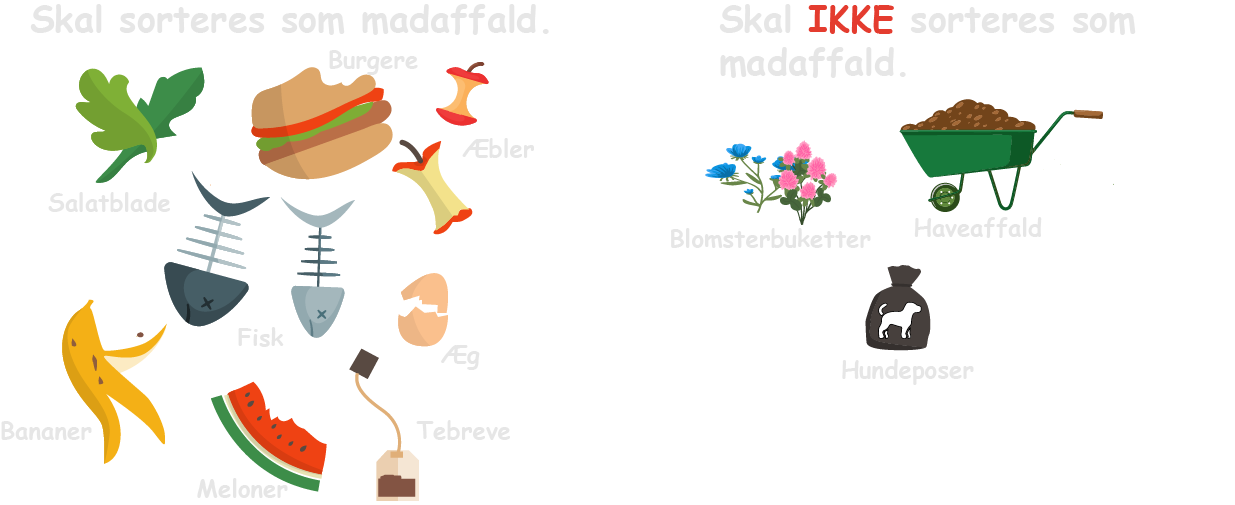
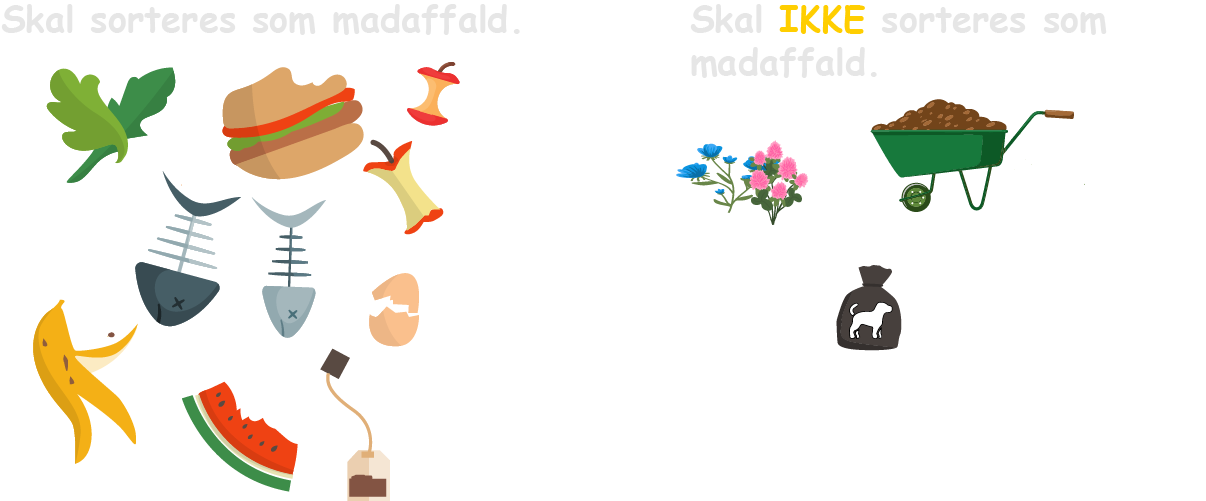
Polish Madaffald

diff --git a/index.html b/index.html
@@ -17,8 +17,8 @@
 
     <!-- Intro Title-->
     <div class="BodyHeader">
-        <h1 id="Title">  Her i Odense skal vi sortere efter <span class="green"> 8 affaldstyper</span></h1>
-        <h4 id="Subtitle">  <span class="green">Scroll </span> videre ned på siden for at få mere at vide</h4>
+        <h1 id="Title">  Her i Odense skal vi sortere efter <span class="green"> 8 affaldstyper.</span></h1>
+        <h4 id="Subtitle">  <span class="green">Scroll </span> videre ned på siden for at få mere at vide.</h4>
         <h5 id="Subtitle">  Eller <span class="green">klik</span> på en af <span class="green">de 8 ikoner</span>, som er placeret på skraldespandene.</h5>
     </div>
 
@@ -74,7 +74,7 @@
             <!-- Hvad Restaffald Afsnit -->
             <div class="sectionBody">
                 <p>Madaffald er affaldet, der kommer <span class="red"> direkte fra madlavning. </span>
-                    Madaffald er dog <span class="red">ikke </span>den gamle grøn affald! </p>
+                    Madaffald er dog <span class="red">ikke </span>den gamle grøn affald. </p>
                 <img class="BodyImg" src="Mad Oversigt.png" alt="Ble">
             </div>
 
@@ -117,12 +117,15 @@
                     </lottie-player>
                     <lottie-player id="eightAnim" src="https://lottie.host/3eef73b9-bc52-47f8-a7c3-7d669af9ec04/Ag7hsefyMr.json">
                     </lottie-player>
-                </div>     
+                </div>  
+                <p>  
+                    Få mere at vide ved <span class="red">at trykke</span> på produkterne.
+                </p>   
             </div>
             <h3> Hvis du er i tvivl </h3>
             <p>
                 Odense Renovation har lavet en <span class="red"> sorteringsguide </span>, 
-                hvor du kan finde ud af, hvordan du <span class="red"> skal sortere </span> forskellige mad- og fødevarer
+                hvor du kan finde ud af, hvordan du <span class="red"> skal sortere </span> forskellige mad- og fødevarer.
                 Du kan finde Odense Renovations sorteringsguide <span class="red">her: https://www.odenserenovation.dk/sorteringsguide/</span>
             </p>
            

diff --git a/WDStylesheet.css b/WDStylesheet.css
@@ -180,7 +180,7 @@ body {
         color: #39b54a; 
     }
     .red {
-        color: #e43c2f;
+        color: #ffce00;
     }
 
     .section {
@@ -194,8 +194,7 @@ body {
     }
     .moreInfo {
         height: auto;
-        margin-top:10%;
-        padding-bottom: 10%;   
+        margin-top:10%; 
         display: flex;
         justify-content: center;
         flex-direction: row;

diff --git a/main.js b/main.js
@@ -187,7 +187,7 @@ document.addEventListener('DOMContentLoaded', function () {
 
   scrollLottie({
     target: '#animationWindow',
-    path: "https://lottie.host/3a865da0-a9d8-413a-8913-835089350f09/EDaUX6glc0.json", 
+    path: "https://lottie.host/4fa6dc0d-0123-4603-a744-3c63c44a281f/h1ZcltJm78.json", 
     duration: 4, 
     speed: 'slow'
    })
